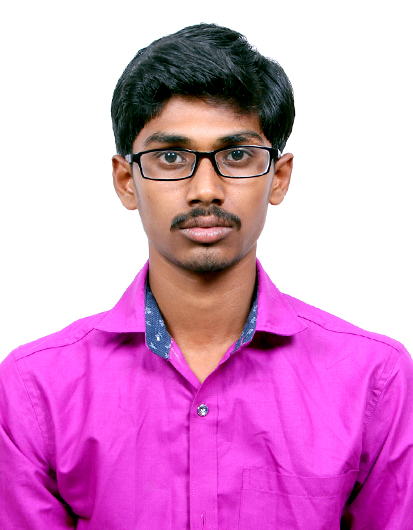
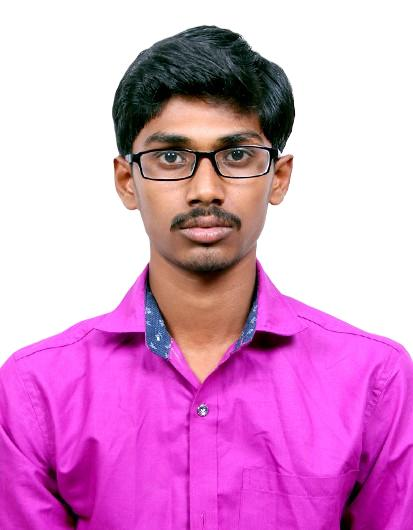
Update project files

diff --git a/index.html b/index.html
@@ -4,91 +4,126 @@
   <meta charset="UTF-8">
   <meta name="viewport" content="width=device-width, initial-scale=1.0">
   <title>My Portfolio</title>
-  <script src="https://cdn.tailwindcss.com"></script>
+  <link href="/src/style.css" rel="stylesheet">
 </head>
-
-<body class="bg-gray-100 text-gray-800 ">
+<body class="bg-gray-100 text-gray-800">
 
   <!-- Navbar -->
-  <nav class="bg-white shadow-  w-full ">
-    <div class="max-w-6xl mx-auto px-4 py-3 flex justify-between items-center">
-      <h1 class="text-xl font-bold">MyPortfolio</h1>
-      <ul class="flex space-x-6">
-        <li><a href="#home" class="hover:text-blue-500">Home</a></li>
-        <li><a href="#projects" class="hover:text-blue-500">Projects</a></li>
-        <li><a href="#about" class="hover:text-blue-500">About</a></li>
-        <li><a href="#contact" class="hover:text-blue-500">Contact</a></li>
-      </ul>
+  <nav class="bg-white shadow-sm border-b border-gray-200 w-full font-sans">
+    <div class="px-4 xl:px-6 h-[72px] flex items-center justify-between gap-4 w-full">
+      <!-- Logo -->
+      <a href="/" class="flex-shrink-0 flex items-center pt-1 pr-2">
+        <div class="relative font-extrabold text-[28px] tracking-tighter text-black">
+          <svg class="absolute -top-1.5 left-[4.5px] w-3 h-3 text-purple-600" fill="currentColor" viewBox="0 0 24 24">
+            <path d="M12 2l-8 8h5v0h6v0h5l-8-8z" />
+          </svg>
+          udemy
+        </div>
+      </a>
+
+      <!-- Left nav links -->
+      <div class="hidden lg:flex items-center text-[14px] text-gray-600 gap-4 flex-shrink-0 whitespace-nowrap">
+        <a href="#" class="hover:text-purple-600 transition px-2">Find Courses</a>
+        <a href="#" class="hover:text-purple-600 transition px-2">Get Certified</a>
+        <a href="#" class="hover:text-purple-600 transition px-2">Subscribe</a>
+      </div>
+
+      <!-- Search Bar -->
+      <div class="flex-grow min-w-[150px] max-w-[800px] px-2 md:px-4 hidden sm:flex items-center">
+        <div class="relative w-full border border-gray-400 rounded-full bg-gray-50 h-11 lg:h-12 flex items-center focus-within:border-gray-800 transition overflow-hidden">
+          <svg class="w-5 h-5 ml-4 mr-2 text-gray-500 flex-shrink-0" fill="none" stroke="currentColor" viewBox="0 0 24 24" xmlns="http://www.w3.org/2000/svg">
+            <path stroke-linecap="round" stroke-linejoin="round" stroke-width="2" d="M21 21l-6-6m2-5a7 7 0 11-14 0 7 7 0 0114 0z"></path>
+          </svg>
+          <input type="text" placeholder="Search for anything" class="bg-transparent border-none outline-none w-full h-full text-black placeholder-gray-500 text-[14px] font-light">
+        </div>
+      </div>
+
+      <!-- Right Links -->
+      <div class="hidden xl:flex items-center text-[14px] text-gray-600 gap-4 flex-shrink-0 whitespace-nowrap">
+        <a href="#" class="hover:text-purple-600 transition px-2">Udemy Business</a>
+        <a href="#" class="hover:text-purple-600 transition px-2">Teach on Udemy</a>
+      </div>
+
+      <!-- Actions -->
+      <div class="flex items-center gap-3 flex-shrink-0">
+        <a href="#" class="text-gray-600 hover:text-purple-600 transition px-1 lg:px-2">
+          <svg class="w-6 h-6" fill="none" stroke="currentColor" viewBox="0 0 24 24" xmlns="http://www.w3.org/2000/svg">
+             <path stroke-linecap="round" stroke-linejoin="round" stroke-width="2" d="M3 3h2l.4 2M7 13h10l4-8H5.4M7 13L5.4 5M7 13l-2.293 2.293c-.63.63-.184 1.707.707 1.707H17m0 0a2 2 0 100 4 2 2 0 000-4zm-8 2a2 2 0 11-4 0 2 2 0 014 0z"></path>
+          </svg>
+        </a>
+        <div class="hidden md:flex items-center gap-2">
+          <a href="#" class="border border-purple-600 text-purple-600 font-bold text-[14px] h-10 px-5 flex items-center justify-center whitespace-nowrap hover:bg-purple-50 transition rounded-md bg-white">Log in</a>
+          <a href="#" class="bg-purple-600 text-white font-bold text-[14px] h-10 px-5 flex items-center justify-center whitespace-nowrap hover:bg-purple-700 transition rounded-md border border-purple-600">Sign up</a>
+          <a href="#" class="border border-purple-600 text-purple-600 h-10 w-10 flex items-center justify-center hover:bg-purple-50 transition rounded-md bg-white">
+            <svg class="w-5 h-5" fill="none" stroke="currentColor" viewBox="0 0 24 24" xmlns="http://www.w3.org/2000/svg">
+              <path stroke-linecap="round" stroke-linejoin="round" stroke-width="2" d="M3.055 11H5a2 2 0 012 2v1a2 2 0 002 2 2 2 0 012 2v2.945M8 3.935V5.5A2.5 2.5 0 0010.5 8h.5a2 2 0 012 2 2 2 0 104 0 2 2 0 012-2h1.064M15 20.488V18a2 2 0 012-2h3.064M21 12a9 9 0 11-18 0 9 9 0 0118 0z"></path>
+            </svg>
+          </a>
+        </div>
+      </div>
     </div>
   </nav>
 
   <!-- Hero Section -->
-  <section id="home" class="flex items-center justify-center bg-blue-500 text-white">
-    <div class="text-center">
-      <h2 class="text-4xl md:text-6xl font-bold mb-4">Hi, I'm Dhanush Chakravarthy</h2>
-      <p class="text-lg md:text-xl">Junior Developer</p>
-      <a href="#projects" class="mt-6 inline-block bg-white text-blue-500 px-6 py-2 rounded-lg font-semibold hover:bg-gray-200">
-        View Projects
-      </a>
-    </div>
-  </section>
-  <section>
-    <div class="flex  justify-center">
-      <img src="image/DHANUSH-JAYAKUMAR.jpg" class="w-32 h-32 rounded-full object-cover border-4 border-black-500 mt-5">
+  <section id="home" class="flex flex-col items-center justify-center bg-blue-500 text-white py-16 px-4 text-center">
+    <h2 class="text-3xl md:text-5xl font-bold mb-4">Hi, I'm Dhanush Chakravarthy</h2>
+    <p class="text-lg md:text-xl mb-6">Junior Developer</p>
+    <a href="#projects" class="inline-block bg-white text-blue-500 px-6 py-2 rounded-lg font-semibold hover:bg-gray-200">
+      View Projects
+    </a>
+    <img src="image/DHANUSH-JAYAKUMAR.jpg" class="w-24 h-24 md:w-32 md:h-32 rounded-full object-cover border-4 border-black mt-6" alt="Dhanush Photo">
   </section>
 
   <!-- Projects Section -->
-  <section id="projects" class="py-16 max-w-6xl mx-auto px-4">
-    <h2 class="text-3xl font-bold text-center mb-10">My Projects</h2>
-    
-    <div class="grid md:grid-cols-3 gap-8">
+  <section id="projects" class="py-12 max-w-6xl mx-auto px-4">
+    <h2 class="text-2xl md:text-3xl font-bold text-center mb-8">My Projects</h2>
+    <div class="grid grid-cols-1 md:grid-cols-3 gap-6">
       <!-- Project Card -->
       <div class="bg-white p-6 rounded-xl shadow-md hover:shadow-lg transition">
         <h3 class="text-xl font-semibold mb-2">Project 1</h3>
-        <p class="text-gray-600 mb-4">Testing of Web Application using Selenium.</p>
+        <p class="text-gray-600">Testing of Web Application using Selenium.</p>
       </div>
-
-      <div class="bg-white p-6 rounded-xl shadow-md hover:shadow-lg">
+      <div class="bg-white p-6 rounded-xl shadow-md hover:shadow-lg transition">
         <h3 class="text-xl font-semibold mb-2">Project 2</h3>
-        <p class="text-gray-600 mb-4">Creating a Portfolio Using Tailwind CSS.</p>
+        <p class="text-gray-600">Creating a Portfolio Using Tailwind CSS.</p>
       </div>
-
       <div class="bg-white p-6 rounded-xl shadow-md hover:shadow-lg transition">
         <h3 class="text-xl font-semibold mb-2">Project 3</h3>
-        <p class="text-gray-600 mb-4">Short description of your project.</p>
+        <p class="text-gray-600">Short description of your project.</p>
       </div>
     </div>
   </section>
 
   <!-- About Section -->
-  <section id="about" class="bg-white py-16">
-    <div class="max-w-4xl mx-auto px-4 text-center">
-      <h2 class="text-3xl font-bold mb-6">Certifications</h2>
-      <p class="text-gray-600">
-        <ul>
-          <li>AUTOMATION TESTING USING JAVA AND SELENIUM</li>
-        </ul>
-      </p>
+  <section id="about" class="bg-white py-12 px-4">
+    <div class="max-w-4xl mx-auto text-center">
+      <h2 class="text-2xl md:text-3xl font-bold mb-6">Certifications</h2>
+      <ul class="text-gray-600 list-disc list-inside">
+        <li>AUTOMATION TESTING USING JAVA AND SELENIUM</li>
+      </ul>
     </div>
   </section>
 
   <!-- Contact Section -->
-  <section id="contact" class="py-16 max-w-4xl mx-auto px-4">
-    <h2 class="text-3xl font-bold text-center mb-10">Contact Me</h2>
-
+  <section id="contact" class="py-12 px-4 max-w-4xl mx-auto">
+    <h2 class="text-2xl md:text-3xl font-bold text-center mb-8">Contact Me</h2>
     <form class="bg-white p-6 rounded-xl shadow-md space-y-4">
       <input type="text" placeholder="Your Name" class="w-full p-3 border rounded-lg">
       <input type="email" placeholder="Your Email" class="w-full p-3 border rounded-lg">
       <textarea placeholder="Your Message" class="w-full p-3 border rounded-lg"></textarea>
-      <button class="bg-blue-500 text-white px-6 py-2 rounded-lg hover:bg-blue-600">
-        Send Message
-      </button>
+      <button class="bg-blue-500 text-white px-6 py-2 rounded-lg hover:bg-blue-600 w-full md:w-auto">Send Message</button>
     </form>
   </section>
-  <section class="mb-5">
-    <div class="flex justify-center">
-     <a href="https://facebook.com/"> <img src="image/facebook-logo-vector-icon-logotype-vector-eps_901408-408.avif" alt="" class="h-[30px] w-[40px] pr-5"></a>
-     <a href="https://www.instagram.com/"> <img src="image/OIP (1).webp" alt="" class="w-[40px] h-[30px]"></a>
+
+  <!-- Social Section -->
+  <section class="py-6">
+    <div class="flex justify-center gap-6">
+      <a href="https://facebook.com/">
+        <img src="image/facebook-logo-vector-icon-logotype-vector-eps_901408-408.avif" alt="Facebook" class="h-8 w-8">
+      </a>
+      <a href="https://www.instagram.com/">
+        <img src="image/OIP (1).webp" alt="Instagram" class="h-8 w-8">
+      </a>
     </div>
   </section>
 

diff --git a/ind.html b/ind.html
@@ -1,74 +1,77 @@
 <!DOCTYPE html>
 
-<html>
-    <head>
-        <meta charset="utf-8">
-        <meta http-equiv="X-UA-Compatible" content="IE=edge">
-        <title></title>
-        <meta name="description" content="">
-        <meta name="viewport" content="width=device-width, initial-scale=1">
-        <link href="/src/style.css" rel="stylesheet">
-         <script src="https://cdn.tailwindcss.com"></script>
-    </head>
-    <body class="p-10">
-    <section class="bg-purple-100 rounded-2xl mb-10">
-        <div class="container mx-auto my-auto">
-            <div class="flex">
-                <a class="font-bold text-gray-800 pr-5  border-r mr-5 border-purple-300 mt-2" href="index.html">Portfolio</a>
-                <div class="border border-black my-auto">
-                    <button class="hidden">
+<!DOCTYPE html>
+<html lang="en">
+<head>
+  <meta charset="UTF-8">
+  <meta http-equiv="X-UA-Compatible" content="IE=edge">
+  <title>Portfolio</title>
+  <meta name="description" content="">
+  <meta name="viewport" content="width=device-width, initial-scale=1">
+  <link href="src/style.css" rel="stylesheet">
+  <script src="https://cdn.tailwindcss.com"></script>
+</head>
+<body class="p-5 md:p-10 bg-black">
+<span class="absolute top-0 left-0 w-10 h-10 border-t-4 border-l-4 border-green-300"></span>
+    <span class="absolute top-0 right-0 w-10 h-10 border-t-4 border-r-4 border-green-300"></span>
+    <span class="absolute bottom-0 left-0 w-10 h-10 border-b-4 border-l-4 border-green-300"></span>
+    <span class="absolute bottom-0 right-0 w-10 h-10 border-b-4 border-r-4 border-green-300"></span>
+  <!-- Header / Navigation -->
+  <header class="bg- rounded-2xl mb-8 p-5 md:p-8">
+    <div class="container mx-auto flex flex-col md:flex-row items-center md:items-start">
+      <div class="flex items-center mb-4 md:mb-0 md:mr-8">
+        <a class="font-bold text-green-300" href="index.html">Port</a>
+          <a class="font-bold text-white pr-5" href="index.html">folio</a>
+        <!-- Optional button placeholder -->
+      <nav class="flex flex-wrap gap-3 md:gap-4 mb-4 md:mb-0">
+        <a class="px-3 py-2  rounded-xl  hover:text-green-300 text-white" href="index.html">Home</a>
+        <a class="px-3 py-2  rounded-xl  hover:text-green-300 text-white" href="#about">About</a>
+        <a class="px-3 py-2  rounded-xl  hover:text-green-300 text-white" href="#contact">Contact</a>
+      </nav>
+      </div>
+      <a href="image/Dhanush_Chakravarthy_Resume.pdf" target="_blank" class="font-bold bg-red-500 px-3 py-2 rounded-xl mt-2 md:mt-0 md:ml-auto">Get my resume</a>
+    </div>
+  </header>
 
-                    </button>
-                </div>
-                <div class="flex">
-                    <a class="p-5 px-3 py-2 border rounded-xl border-purple-100 hover:border-purple-300" href="">Home</a>
-                    <a class="p-5 px-3 py-2 border rounded-xl border-purple-100 hover:border-purple-300" href="#eqq">About</a>
-                    <a class="p-5 px-3 py-2 border rounded-xl border-purple-100 hover:border-purple-300" href="">Contact</a>
-                </div>
-                <a href="image/Dhanush_Chakravarthy_Resume.pdf" class="font-bold bg-red-500 px-3 py-3 rounded-xl ml-auto mt-2">Get my resume</a>
-            </div>
-            <div class="flex py-35 font-bold">
-                <div class="w-1/2 text-center py-16">
-                        <h2 class="text-6xl"> Welcome !!!</h2>
-                        <p class="mt-2">Entry-level Web Developer with hands-on experience creating dynamic, responsive websites through academic projects and personal initiatives. Proficient in front-end technologies and familiar with back-end fundamentals, with a keen eye for UI/UX best practices. Committed to writing clean, maintainable code and continuously improving through feedback and emerging industry trends.</p>
-                </div>
-                <div class="1/2 ml-auto py-10">
-                    <img src="image/laptop.jpg" class="rounded-2xl" alt="no image">
-                </div>
-            </div>
-        </div>
-    </section>
-    <section id="eqq" class=" bg-blue-300 mb-10 rounded-2xl p-5">
-        <div class="container mx-auto my-auto">
-            <div>
-                <h3 class="text-3xl underline font-bold id=about">Educational Qualifications</h3>
-            </div>
-        </div>
-        </section>
-    <section class="bg-gray-100 p-5">
-        <div class="flex">
-            <div class="w-1/4">
-               <p class="bg-white shadow-lg mr-2 py-10 text-center rounded-2xl">Msc., Mathematcis<br>
-               Govt Arts and Science Colloge Krishnagiri<br>
-               2020-2022</p>
-            </div>
-            <div class="w-1/4">
-                <p class="bg-white shadow-lg mr-2 py-10 text-center rounded-2xl">
-               Bsc Mathematcis<br> Arignar Anna Arts and Science Collage <br> 2017-2020
-                </p>
-            </div>
-            <div class="w-1/4">
-                <p class="bg-white shadow-lg mr-2 py-10 text-center rounded-2xl">
-                HSC <br> Govt Boys Hr Sec School Krishnagiri <br> 2016-2017
-                </p>
-            </div>
-           <div class="w-1/4">
-            <p class="bg-white shadow-lg mr-2 py-10 text-center rounded-2xl">
-                SSLC<br> Govt Boys Hr Sec School Krishnagiri <br> 2014-2015
-            </p>
-            </div>
-        </div>
-    </section>
-        <script src="" async defer></script>
-    </body>
+  <!-- Welcome Section -->
+  <section class="bg-black text-white rounded-2xl mb-8 p-5 md:p-10">
+    <div class="container mx-auto flex flex-col md:flex-row items-center gap-6">
+      <div class="md:w-1/2 text-center md:text-left">
+        <h2 class="text-4xl md:text-6xl font-bold mb-4">Welcome !!!</h2>
+        <p class="text-sm md:text-base">
+          Entry-level Web Developer with hands-on experience creating dynamic, responsive websites through academic projects and personal initiatives. Proficient in front-end technologies and familiar with back-end fundamentals, with a keen eye for UI/UX best practices. Committed to writing clean, maintainable code and continuously improving through feedback and emerging industry trends.
+        </p>
+      </div>
+      <div class="md:w-1/2 md:flex md:justify-end">
+        <img src="/image/DHANUSH-JAYAKUMAR.jpg" class="rounded-2xl w-24 h-auto" alt="Laptop image">
+      </div>
+    </div>
+  </section>
+
+  <!-- About / Education Section -->
+  <section id="about" class="bg-black text-white rounded-2xl mb-8 p-5 md:p-10">
+    <h3 class="text-2xl md:text-3xl underline font-bold mb-6 text-center md:text-left">Educational Qualifications</h3>
+    <div class="flex flex-col md:flex-row gap-4 md:gap-4">
+      <div class="bg-black shadow-lg rounded-2xl py-6 text-center flex-1">
+        <p class="font-semibold">MSc., Mathematics<br>Govt Arts and Science College, Krishnagiri<br>2020-2022</p>
+      </div>
+      <div class="bg-black shadow-lg rounded-2xl py-6 text-center flex-1">
+        <p class="font-semibold">BSc., Mathematics<br>Arignar Anna Arts and Science College<br>2017-2020</p>
+      </div>
+      <div class="bg-black shadow-lg rounded-2xl py-6 text-center flex-1">
+        <p class="font-semibold">HSC<br>Govt Boys Hr Sec School, Krishnagiri<br>2016-2017</p>
+      </div>
+      <div class="bg-black shadow-lg rounded-2xl py-6 text-center flex-1">
+        <p class="font-semibold">SSLC<br>Govt Boys Hr Sec School, Krishnagiri<br>2014-2015</p>
+      </div>
+    </div>
+  </section>
+
+  <!-- Contact Section (Optional placeholder) -->
+  <section id="contact" class="bg-black text-white p-5 md:p-10 rounded-2xl mb-8">
+    <h3 class="text-2xl md:text-3xl font-bold mb-4 text-center">Contact Me</h3>
+    <!-- Add contact form or links here -->
+  </section>
+
+</body>
 </html>

diff --git a/src/style.css b/src/style.css
@@ -1,0 +1,18 @@
+@import "tailwindcss";
+
+/* Custom global styles */
+html {
+  scroll-behavior: smooth;
+}
+
+body {
+  font-family: Inter, ui-sans-serif, system-ui, -apple-system, BlinkMacSystemFont, "Segoe UI", sans-serif;
+  margin: 0;
+  min-height: 100vh;
+}
+
+img {
+  max-width: 100%;
+  height: auto;
+  display: block;
+}

diff --git a/vite.config.js b/vite.config.js
@@ -1,0 +1,8 @@
+import { defineConfig } from 'vite'
+import tailwindcss from '@tailwindcss/vite'
+
+export default defineConfig({
+  plugins: [
+    tailwindcss(),
+  ],
+})
